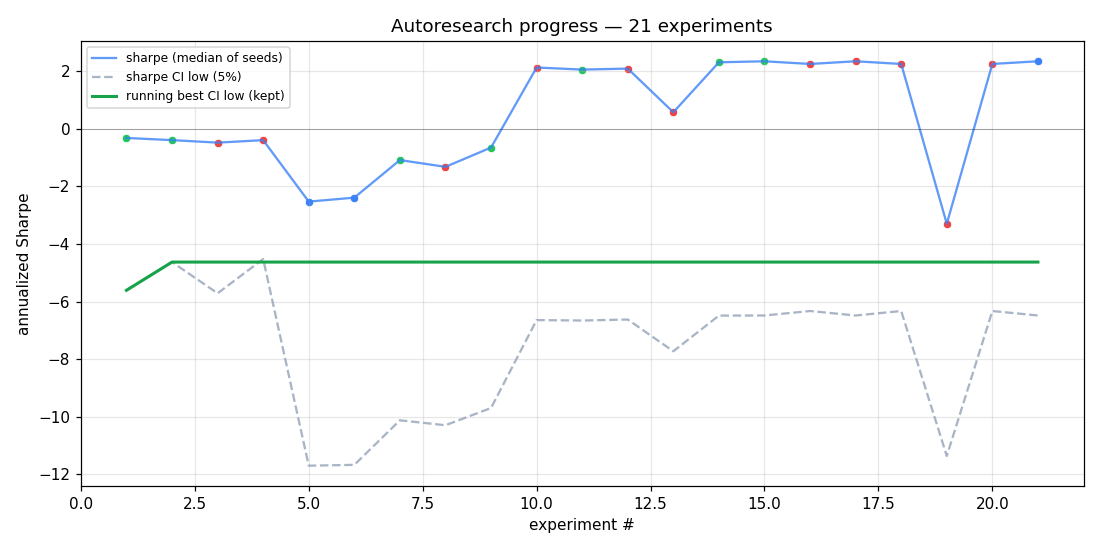
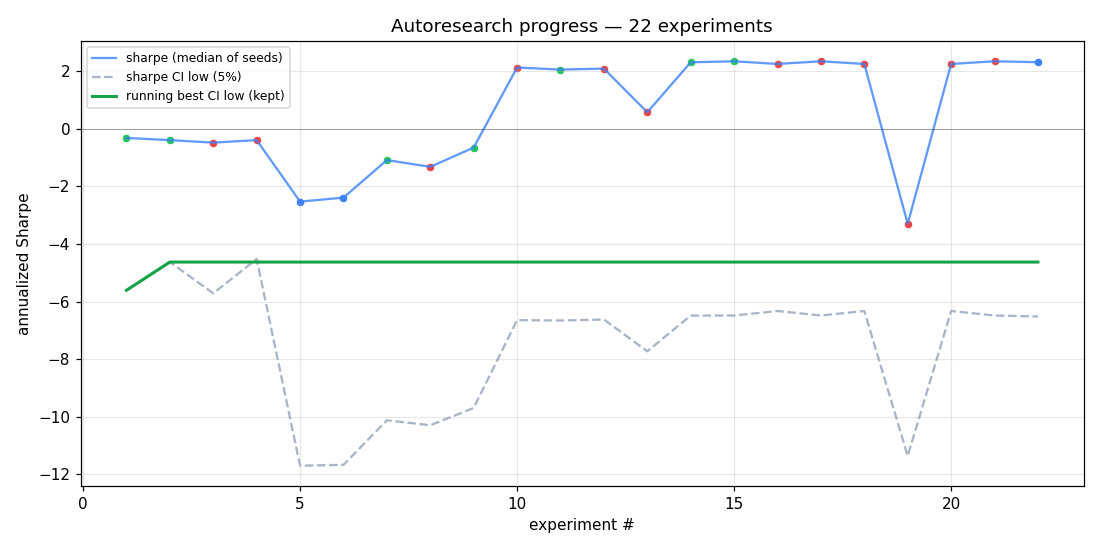
exp18 DISCARD; exp19: RL_REWARD_HORIZON 3→5 — longer credit assignment
8 architecture/hyperparameter changes in a row failed to beat exp11.
Pivoting to reward signal itself: longer horizon gives the policy more
of each trade's actual consequence, which may find better timing.

diff --git a/experiment.py b/experiment.py
@@ -209,11 +209,11 @@ PATCH_LEN = 8
 CONTEXT_PATCHES = 16            # context window = PATCH_LEN * CONTEXT_PATCHES = 128 bars
 D_MODEL = 96                    # exp11 KEPT; exp14 (64) and exp17 (128) both discarded
 N_HEADS = 4
-N_LAYERS = 4    # exp18: deeper model — width tested, try depth
+N_LAYERS = 3
 D_FF = 192
 DROPOUT = 0.1
 PRED_HORIZON = 5
-RL_REWARD_HORIZON = 3
+RL_REWARD_HORIZON = 5    # exp19: longer reward horizon — policy sees more of each trade's outcome
 ACTION_HEAD_HOLD_BIAS = 1.5     # exp10: softmax([-1.5,1.5,-1.5]) ≈ [4.7%,90.6%,4.7%]: be even more selective
 
 PRETRAIN_EPOCHS = 2             # supervised forecast pretrain on TRAIN slice

diff --git a/README.md b/README.md
@@ -29,8 +29,8 @@ A **broken** result: lines fan out wildly, some up some down, dense forest of ve
 
 <!-- RESULTS_START -->
 
-_Last updated: 2026-04-30 09:20 UTC_  
-_Total experiments: **21**  ·  kept: **7**  ·  latest commit: `6af3bb7`_
+_Last updated: 2026-04-30 09:27 UTC_  
+_Total experiments: **22**  ·  kept: **7**  ·  latest commit: `e09842b`_
 
 ### Latest experiment
 
@@ -38,14 +38,14 @@ _Total experiments: **21**  ·  kept: **7**  ·  latest commit: `6af3bb7`_
 
 | metric | value |
 |---|---|
-| Sharpe (median over seeds) | **+2.348** |
-| Sharpe — bootstrap CI low (5%) | **-6.483** |
+| Sharpe (median over seeds) | **+2.316** |
+| Sharpe — bootstrap CI low (5%) | **-6.518** |
 | Sharpe — bootstrap CI high (95%) | +10.170 |
 | Max drawdown | -0.31% |
-| Net PnL | $+75.39 (+0.151%) |
-| Trades | 13 |
-| Fees / slippage | $13.00 / $2.61 |
-| Wall time | 296.1s |
+| Net PnL | $+74.36 (+0.149%) |
+| Trades | 14 |
+| Fees / slippage | $14.00 / $2.81 |
+| Wall time | 344.6s |
 | Seeds completed | 10 |
 
 ### Progress over all experiments
